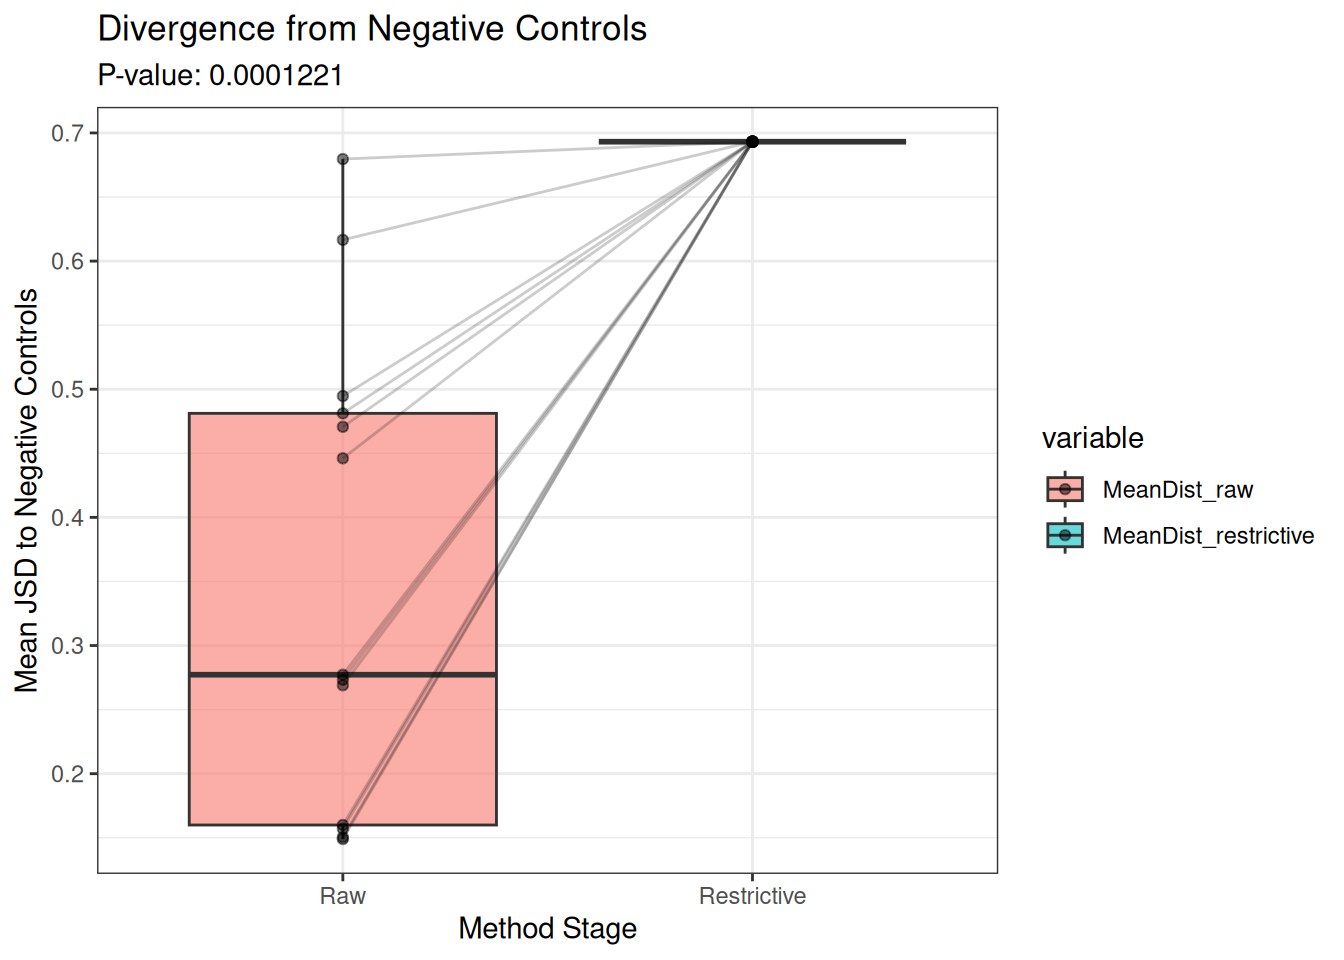
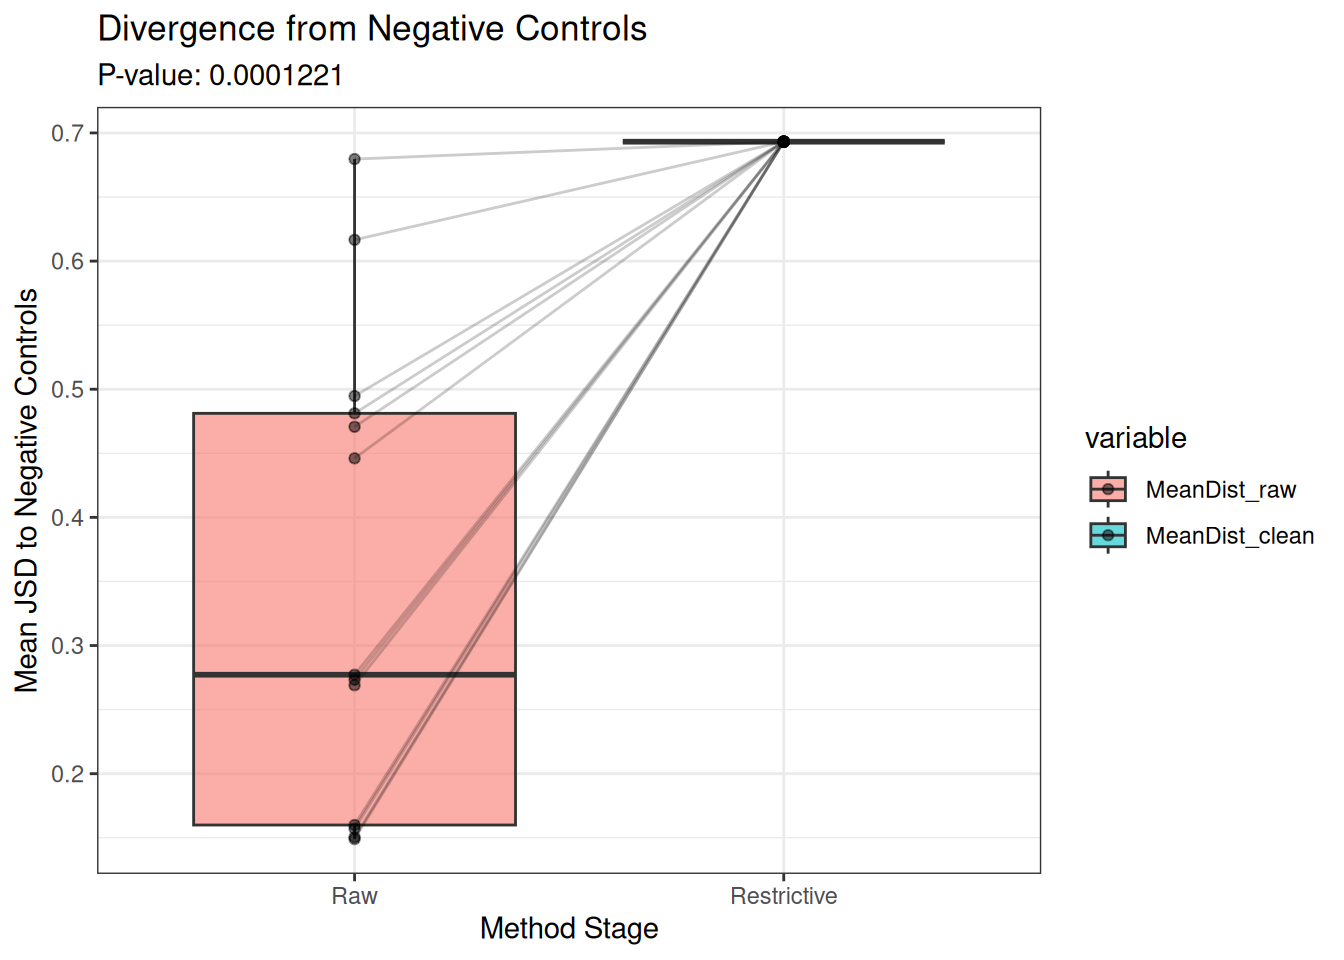
update section 2

diff --git a/Rscripts/Chap3/ComprehensiveAssessment.html b/Rscripts/Chap3/ComprehensiveAssessment.html
@@ -753,7 +753,29 @@ present in any sample after random subsampling</code></pre>
 <span id="cb114-18"><a href="#cb114-18" aria-hidden="true" tabindex="-1"></a>  <span class="co">#print(median_dists)</span></span>
 <span id="cb114-19"><a href="#cb114-19" aria-hidden="true" tabindex="-1"></a>  <span class="fu">return</span>(<span class="fu">data.frame</span>(<span class="at">SampleID =</span> <span class="fu">names</span>(mean_dists), <span class="at">MeanDist =</span> mean_dists, <span class="at">MedianDist =</span> median_dists))</span>
 <span id="cb114-20"><a href="#cb114-20" aria-hidden="true" tabindex="-1"></a>}</span>
-<span id="cb114-21"><a href="#cb114-21" aria-hidden="true" tabindex="-1"></a><span class="do">### Wrapper of statistics and ggplots</span></span></code><button title="Copy to Clipboard" class="code-copy-button"><i class="bi"></i></button></pre></div>
+<span id="cb114-21"><a href="#cb114-21" aria-hidden="true" tabindex="-1"></a><span class="do">### Wrapper of statistics and ggplots</span></span>
+<span id="cb114-22"><a href="#cb114-22" aria-hidden="true" tabindex="-1"></a>wrapper_dist_to_controls <span class="ot">&lt;-</span> <span class="cf">function</span>(ps_raw, ps_clean, group_col, <span class="at">true_label =</span> <span class="st">"true"</span>, <span class="at">control_label =</span> <span class="st">"NCT"</span>, <span class="at">metric =</span> <span class="st">"bray"</span>, <span class="at">decontam_name =</span> <span class="st">"None"</span>){</span>
+<span id="cb114-23"><a href="#cb114-23" aria-hidden="true" tabindex="-1"></a>  df_raw <span class="ot">&lt;-</span> <span class="fu">get_dist_to_controls</span>(ps_raw, group_col, true_label, control_label, metric)</span>
+<span id="cb114-24"><a href="#cb114-24" aria-hidden="true" tabindex="-1"></a>  df_clean <span class="ot">&lt;-</span> <span class="fu">get_dist_to_controls</span>(ps_clean, group_col, true_label, control_label, metric)</span>
+<span id="cb114-25"><a href="#cb114-25" aria-hidden="true" tabindex="-1"></a>  df_raw <span class="ot">&lt;-</span> df_raw <span class="sc">%&gt;%</span> <span class="fu">select</span>(SampleID, <span class="at">MeanDist_raw =</span> MeanDist)</span>
+<span id="cb114-26"><a href="#cb114-26" aria-hidden="true" tabindex="-1"></a>  df_clean <span class="ot">&lt;-</span> df_clean <span class="sc">%&gt;%</span> <span class="fu">select</span>(SampleID, <span class="at">MeanDist_clean =</span> MeanDist)</span>
+<span id="cb114-27"><a href="#cb114-27" aria-hidden="true" tabindex="-1"></a>  <span class="co">#print()</span></span>
+<span id="cb114-28"><a href="#cb114-28" aria-hidden="true" tabindex="-1"></a>  df_stats <span class="ot">&lt;-</span> <span class="fu">merge</span>(df_raw, df_clean, <span class="at">by =</span> <span class="st">"SampleID"</span>)</span>
+<span id="cb114-29"><a href="#cb114-29" aria-hidden="true" tabindex="-1"></a>  test_results <span class="ot">&lt;-</span> <span class="fu">wilcox.test</span>(df_stats<span class="sc">$</span>MeanDist_clean, df_stats<span class="sc">$</span>MeanDist_raw,</span>
+<span id="cb114-30"><a href="#cb114-30" aria-hidden="true" tabindex="-1"></a>                            <span class="at">paired =</span> <span class="cn">TRUE</span>, <span class="at">alternative =</span> <span class="st">"greater"</span>)</span>
+<span id="cb114-31"><a href="#cb114-31" aria-hidden="true" tabindex="-1"></a>  df_long <span class="ot">&lt;-</span> <span class="fu">melt</span>(df_stats, <span class="at">id.vars=</span><span class="st">"SampleID"</span>, <span class="at">measure.vars=</span><span class="fu">c</span>(<span class="st">"MeanDist_raw"</span>, <span class="st">"MeanDist_clean"</span>))</span>
+<span id="cb114-32"><a href="#cb114-32" aria-hidden="true" tabindex="-1"></a>  plt <span class="ot">&lt;-</span> <span class="fu">ggplot</span>(df_long, <span class="fu">aes</span>(<span class="at">x=</span>variable, <span class="at">y=</span>value, <span class="at">fill=</span>variable)) <span class="sc">+</span></span>
+<span id="cb114-33"><a href="#cb114-33" aria-hidden="true" tabindex="-1"></a>  <span class="fu">geom_boxplot</span>(<span class="at">alpha=</span><span class="fl">0.6</span>) <span class="sc">+</span></span>
+<span id="cb114-34"><a href="#cb114-34" aria-hidden="true" tabindex="-1"></a>  <span class="fu">geom_point</span>(<span class="fu">aes</span>(<span class="at">group=</span>SampleID), <span class="at">alpha=</span><span class="fl">0.5</span>) <span class="sc">+</span> <span class="co"># Adds the dots</span></span>
+<span id="cb114-35"><a href="#cb114-35" aria-hidden="true" tabindex="-1"></a>  <span class="fu">geom_line</span>(<span class="fu">aes</span>(<span class="at">group=</span>SampleID), <span class="at">alpha=</span><span class="fl">0.2</span>) <span class="sc">+</span>  <span class="co"># Connects the dots (shows paired change)</span></span>
+<span id="cb114-36"><a href="#cb114-36" aria-hidden="true" tabindex="-1"></a>  <span class="fu">theme_bw</span>() <span class="sc">+</span></span>
+<span id="cb114-37"><a href="#cb114-37" aria-hidden="true" tabindex="-1"></a>  <span class="fu">labs</span>(<span class="at">title =</span> <span class="st">"Divergence from Negative Controls"</span>,</span>
+<span id="cb114-38"><a href="#cb114-38" aria-hidden="true" tabindex="-1"></a>       <span class="at">subtitle =</span> <span class="fu">paste</span>(<span class="st">"P-value:"</span>, <span class="fu">format.pval</span>(test_results<span class="sc">$</span>p.value, <span class="at">digits=</span><span class="dv">4</span>)),</span>
+<span id="cb114-39"><a href="#cb114-39" aria-hidden="true" tabindex="-1"></a>       <span class="at">y =</span> <span class="st">"Mean JSD to Negative Controls"</span>,</span>
+<span id="cb114-40"><a href="#cb114-40" aria-hidden="true" tabindex="-1"></a>       <span class="at">x =</span> <span class="st">"Method Stage"</span>) <span class="sc">+</span></span>
+<span id="cb114-41"><a href="#cb114-41" aria-hidden="true" tabindex="-1"></a>  <span class="fu">scale_x_discrete</span>(<span class="at">labels=</span><span class="fu">c</span>(<span class="st">"Raw"</span>, decontam_name))</span>
+<span id="cb114-42"><a href="#cb114-42" aria-hidden="true" tabindex="-1"></a>  <span class="fu">return</span>(<span class="fu">list</span>(<span class="at">test_results =</span> test_results, <span class="at">plt =</span> plt))</span>
+<span id="cb114-43"><a href="#cb114-43" aria-hidden="true" tabindex="-1"></a>}</span></code><button title="Copy to Clipboard" class="code-copy-button"><i class="bi"></i></button></pre></div>
 </div>
 <section id="raw" class="level3">
 <h3 class="anchored" data-anchor-id="raw">Raw</h3>
@@ -769,39 +791,23 @@ present in any sample after random subsampling</code></pre>
 <section id="restrictive-1" class="level3">
 <h3 class="anchored" data-anchor-id="restrictive-1">Restrictive</h3>
 <div class="cell">
-<div class="sourceCode cell-code" id="cb116"><pre class="sourceCode r code-with-copy"><code class="sourceCode r"><span id="cb116-1"><a href="#cb116-1" aria-hidden="true" tabindex="-1"></a>df_restrictive <span class="ot">&lt;-</span> <span class="fu">get_dist_to_controls</span>(pseq_restrictive_both, <span class="at">group_col =</span> <span class="st">"true.control"</span>,</span>
-<span id="cb116-2"><a href="#cb116-2" aria-hidden="true" tabindex="-1"></a>                               <span class="at">true_label =</span> <span class="st">"true"</span>, <span class="at">control_label =</span> <span class="st">"NCT"</span>,</span>
-<span id="cb116-3"><a href="#cb116-3" aria-hidden="true" tabindex="-1"></a>                               <span class="at">metric =</span> <span class="st">"jsd"</span>)</span>
-<span id="cb116-4"><a href="#cb116-4" aria-hidden="true" tabindex="-1"></a>df_restrictive <span class="ot">&lt;-</span> df_restrictive <span class="sc">%&gt;%</span> </span>
-<span id="cb116-5"><a href="#cb116-5" aria-hidden="true" tabindex="-1"></a>  <span class="fu">rename</span>(<span class="at">MeanDist_restrictive =</span> MeanDist, <span class="at">MedianDist_restrictive =</span> MedianDist)</span>
-<span id="cb116-6"><a href="#cb116-6" aria-hidden="true" tabindex="-1"></a>df_merge <span class="ot">&lt;-</span> <span class="fu">merge</span>(df_raw, df_restrictive, <span class="at">by =</span> <span class="st">"SampleID"</span>)</span>
-<span id="cb116-7"><a href="#cb116-7" aria-hidden="true" tabindex="-1"></a><span class="do">## STATISTICAL </span><span class="al">TEST</span></span>
-<span id="cb116-8"><a href="#cb116-8" aria-hidden="true" tabindex="-1"></a>test_results <span class="ot">&lt;-</span> <span class="fu">wilcox.test</span>(df_merge<span class="sc">$</span>MeanDist_restrictive, df_merge<span class="sc">$</span>MeanDist_raw,</span>
-<span id="cb116-9"><a href="#cb116-9" aria-hidden="true" tabindex="-1"></a>                            <span class="at">paired =</span> <span class="cn">TRUE</span>, <span class="at">alternative =</span> <span class="st">"greater"</span>)</span>
-<span id="cb116-10"><a href="#cb116-10" aria-hidden="true" tabindex="-1"></a><span class="fu">print</span>(test_results)</span></code><button title="Copy to Clipboard" class="code-copy-button"><i class="bi"></i></button></pre></div>
+<div class="sourceCode cell-code" id="cb116"><pre class="sourceCode r code-with-copy"><code class="sourceCode r"><span id="cb116-1"><a href="#cb116-1" aria-hidden="true" tabindex="-1"></a>res <span class="ot">&lt;-</span> <span class="fu">wrapper_dist_to_controls</span>(pseq_raw_both, pseq_restrictive_both,</span>
+<span id="cb116-2"><a href="#cb116-2" aria-hidden="true" tabindex="-1"></a>                                <span class="at">group_col =</span> <span class="st">"true.control"</span>, </span>
+<span id="cb116-3"><a href="#cb116-3" aria-hidden="true" tabindex="-1"></a>                                <span class="at">true_label =</span> <span class="st">"true"</span>, <span class="at">control_label =</span> <span class="st">"NCT"</span>,</span>
+<span id="cb116-4"><a href="#cb116-4" aria-hidden="true" tabindex="-1"></a>                                <span class="at">metric =</span> <span class="st">"jsd"</span>, <span class="at">decontam_name =</span> <span class="st">"Restrictive"</span>)</span>
+<span id="cb116-5"><a href="#cb116-5" aria-hidden="true" tabindex="-1"></a><span class="fu">print</span>(res<span class="sc">$</span>test_results)</span></code><button title="Copy to Clipboard" class="code-copy-button"><i class="bi"></i></button></pre></div>
 <div class="cell-output cell-output-stdout">
 <pre><code>
     Wilcoxon signed rank exact test
 
-data:  df_merge$MeanDist_restrictive and df_merge$MeanDist_raw
+data:  df_stats$MeanDist_clean and df_stats$MeanDist_raw
 V = 91, p-value = 0.0001221
 alternative hypothesis: true location shift is greater than 0</code></pre>
 </div>
 </div>
 <p>GGplot</p>
 <div class="cell">
-<div class="sourceCode cell-code" id="cb118"><pre class="sourceCode r code-with-copy"><code class="sourceCode r"><span id="cb118-1"><a href="#cb118-1" aria-hidden="true" tabindex="-1"></a>df_long <span class="ot">&lt;-</span> <span class="fu">melt</span>(df_merge, <span class="at">id.vars=</span><span class="st">"SampleID"</span>, <span class="at">measure.vars=</span><span class="fu">c</span>(<span class="st">"MeanDist_raw"</span>, <span class="st">"MeanDist_restrictive"</span>))</span>
-<span id="cb118-2"><a href="#cb118-2" aria-hidden="true" tabindex="-1"></a></span>
-<span id="cb118-3"><a href="#cb118-3" aria-hidden="true" tabindex="-1"></a><span class="fu">ggplot</span>(df_long, <span class="fu">aes</span>(<span class="at">x=</span>variable, <span class="at">y=</span>value, <span class="at">fill=</span>variable)) <span class="sc">+</span></span>
-<span id="cb118-4"><a href="#cb118-4" aria-hidden="true" tabindex="-1"></a>  <span class="fu">geom_boxplot</span>(<span class="at">alpha=</span><span class="fl">0.6</span>) <span class="sc">+</span></span>
-<span id="cb118-5"><a href="#cb118-5" aria-hidden="true" tabindex="-1"></a>  <span class="fu">geom_point</span>(<span class="fu">aes</span>(<span class="at">group=</span>SampleID), <span class="at">alpha=</span><span class="fl">0.5</span>) <span class="sc">+</span> <span class="co"># Adds the dots</span></span>
-<span id="cb118-6"><a href="#cb118-6" aria-hidden="true" tabindex="-1"></a>  <span class="fu">geom_line</span>(<span class="fu">aes</span>(<span class="at">group=</span>SampleID), <span class="at">alpha=</span><span class="fl">0.2</span>) <span class="sc">+</span>  <span class="co"># Connects the dots (shows paired change)</span></span>
-<span id="cb118-7"><a href="#cb118-7" aria-hidden="true" tabindex="-1"></a>  <span class="fu">theme_bw</span>() <span class="sc">+</span></span>
-<span id="cb118-8"><a href="#cb118-8" aria-hidden="true" tabindex="-1"></a>  <span class="fu">labs</span>(<span class="at">title =</span> <span class="st">"Divergence from Negative Controls"</span>,</span>
-<span id="cb118-9"><a href="#cb118-9" aria-hidden="true" tabindex="-1"></a>       <span class="at">subtitle =</span> <span class="fu">paste</span>(<span class="st">"P-value:"</span>, <span class="fu">format.pval</span>(test_results<span class="sc">$</span>p.value, <span class="at">digits=</span><span class="dv">4</span>)),</span>
-<span id="cb118-10"><a href="#cb118-10" aria-hidden="true" tabindex="-1"></a>       <span class="at">y =</span> <span class="st">"Mean JSD to Negative Controls"</span>,</span>
-<span id="cb118-11"><a href="#cb118-11" aria-hidden="true" tabindex="-1"></a>       <span class="at">x =</span> <span class="st">"Method Stage"</span>) <span class="sc">+</span></span>
-<span id="cb118-12"><a href="#cb118-12" aria-hidden="true" tabindex="-1"></a>  <span class="fu">scale_x_discrete</span>(<span class="at">labels=</span><span class="fu">c</span>(<span class="st">"Raw"</span>, <span class="st">"Restrictive"</span>))</span></code><button title="Copy to Clipboard" class="code-copy-button"><i class="bi"></i></button></pre></div>
+<div class="sourceCode cell-code" id="cb118"><pre class="sourceCode r code-with-copy"><code class="sourceCode r"><span id="cb118-1"><a href="#cb118-1" aria-hidden="true" tabindex="-1"></a>res<span class="sc">$</span>plt</span></code><button title="Copy to Clipboard" class="code-copy-button"><i class="bi"></i></button></pre></div>
 <div class="cell-output-display">
 <div>
 <figure class="figure">
@@ -813,12 +819,89 @@ alternative hypothesis: true location shift is greater than 0</code></pre>
 </section>
 <section id="decontam-1" class="level3">
 <h3 class="anchored" data-anchor-id="decontam-1">Decontam</h3>
+<div class="cell">
+<div class="sourceCode cell-code" id="cb119"><pre class="sourceCode r code-with-copy"><code class="sourceCode r"><span id="cb119-1"><a href="#cb119-1" aria-hidden="true" tabindex="-1"></a>res <span class="ot">&lt;-</span> <span class="fu">wrapper_dist_to_controls</span>(pseq_raw_both, pseq_decontam_both,</span>
+<span id="cb119-2"><a href="#cb119-2" aria-hidden="true" tabindex="-1"></a>                                <span class="at">group_col =</span> <span class="st">"true.control"</span>, </span>
+<span id="cb119-3"><a href="#cb119-3" aria-hidden="true" tabindex="-1"></a>                                <span class="at">true_label =</span> <span class="st">"true"</span>, <span class="at">control_label =</span> <span class="st">"NCT"</span>,</span>
+<span id="cb119-4"><a href="#cb119-4" aria-hidden="true" tabindex="-1"></a>                                <span class="at">metric =</span> <span class="st">"jsd"</span>, <span class="at">decontam_name =</span> <span class="st">"decontam"</span>)</span>
+<span id="cb119-5"><a href="#cb119-5" aria-hidden="true" tabindex="-1"></a><span class="fu">print</span>(res<span class="sc">$</span>test_results)</span></code><button title="Copy to Clipboard" class="code-copy-button"><i class="bi"></i></button></pre></div>
+<div class="cell-output cell-output-stdout">
+<pre><code>
+    Wilcoxon signed rank exact test
+
+data:  df_stats$MeanDist_clean and df_stats$MeanDist_raw
+V = 91, p-value = 0.0001221
+alternative hypothesis: true location shift is greater than 0</code></pre>
+</div>
+</div>
+<p>GGplot</p>
+<div class="cell">
+<div class="sourceCode cell-code" id="cb121"><pre class="sourceCode r code-with-copy"><code class="sourceCode r"><span id="cb121-1"><a href="#cb121-1" aria-hidden="true" tabindex="-1"></a>res<span class="sc">$</span>plt</span></code><button title="Copy to Clipboard" class="code-copy-button"><i class="bi"></i></button></pre></div>
+<div class="cell-output-display">
+<div>
+<figure class="figure">
+<p><img src="ComprehensiveAssessment_files/figure-html/unnamed-chunk-20-1.png" class="img-fluid figure-img" width="672"></p>
+</figure>
+</div>
+</div>
+</div>
 </section>
 <section id="scrub-1" class="level3">
 <h3 class="anchored" data-anchor-id="scrub-1">SCRuB</h3>
+<div class="cell">
+<div class="sourceCode cell-code" id="cb122"><pre class="sourceCode r code-with-copy"><code class="sourceCode r"><span id="cb122-1"><a href="#cb122-1" aria-hidden="true" tabindex="-1"></a>res <span class="ot">&lt;-</span> <span class="fu">wrapper_dist_to_controls</span>(pseq_raw_both, pseq_SCRuB_both,</span>
+<span id="cb122-2"><a href="#cb122-2" aria-hidden="true" tabindex="-1"></a>                                <span class="at">group_col =</span> <span class="st">"true.control"</span>, </span>
+<span id="cb122-3"><a href="#cb122-3" aria-hidden="true" tabindex="-1"></a>                                <span class="at">true_label =</span> <span class="st">"true"</span>, <span class="at">control_label =</span> <span class="st">"NCT"</span>,</span>
+<span id="cb122-4"><a href="#cb122-4" aria-hidden="true" tabindex="-1"></a>                                <span class="at">metric =</span> <span class="st">"jsd"</span>, <span class="at">decontam_name =</span> <span class="st">"SCRuB"</span>)</span>
+<span id="cb122-5"><a href="#cb122-5" aria-hidden="true" tabindex="-1"></a><span class="fu">print</span>(res<span class="sc">$</span>test_results)</span></code><button title="Copy to Clipboard" class="code-copy-button"><i class="bi"></i></button></pre></div>
+<div class="cell-output cell-output-stdout">
+<pre><code>
+    Wilcoxon signed rank exact test
+
+data:  df_stats$MeanDist_clean and df_stats$MeanDist_raw
+V = 105, p-value = 6.104e-05
+alternative hypothesis: true location shift is greater than 0</code></pre>
+</div>
+</div>
+<div class="cell">
+<div class="sourceCode cell-code" id="cb124"><pre class="sourceCode r code-with-copy"><code class="sourceCode r"><span id="cb124-1"><a href="#cb124-1" aria-hidden="true" tabindex="-1"></a>res<span class="sc">$</span>plt</span></code><button title="Copy to Clipboard" class="code-copy-button"><i class="bi"></i></button></pre></div>
+<div class="cell-output-display">
+<div>
+<figure class="figure">
+<p><img src="ComprehensiveAssessment_files/figure-html/unnamed-chunk-22-1.png" class="img-fluid figure-img" width="672"></p>
+</figure>
+</div>
+</div>
+</div>
 </section>
 <section id="nejman-1" class="level3">
 <h3 class="anchored" data-anchor-id="nejman-1">Nejman</h3>
+<div class="cell">
+<div class="sourceCode cell-code" id="cb125"><pre class="sourceCode r code-with-copy"><code class="sourceCode r"><span id="cb125-1"><a href="#cb125-1" aria-hidden="true" tabindex="-1"></a>res <span class="ot">&lt;-</span> <span class="fu">wrapper_dist_to_controls</span>(pseq_raw_both, pseq_Nj_both,</span>
+<span id="cb125-2"><a href="#cb125-2" aria-hidden="true" tabindex="-1"></a>                                <span class="at">group_col =</span> <span class="st">"true.control"</span>, </span>
+<span id="cb125-3"><a href="#cb125-3" aria-hidden="true" tabindex="-1"></a>                                <span class="at">true_label =</span> <span class="st">"true"</span>, <span class="at">control_label =</span> <span class="st">"NCT"</span>,</span>
+<span id="cb125-4"><a href="#cb125-4" aria-hidden="true" tabindex="-1"></a>                                <span class="at">metric =</span> <span class="st">"jsd"</span>, <span class="at">decontam_name =</span> <span class="st">"Nejman"</span>)</span>
+<span id="cb125-5"><a href="#cb125-5" aria-hidden="true" tabindex="-1"></a><span class="fu">print</span>(res<span class="sc">$</span>test_results)</span></code><button title="Copy to Clipboard" class="code-copy-button"><i class="bi"></i></button></pre></div>
+<div class="cell-output cell-output-stdout">
+<pre><code>
+    Wilcoxon signed rank exact test
+
+data:  df_stats$MeanDist_clean and df_stats$MeanDist_raw
+V = 78, p-value = 0.0002441
+alternative hypothesis: true location shift is greater than 0</code></pre>
+</div>
+</div>
+<div class="cell">
+<div class="sourceCode cell-code" id="cb127"><pre class="sourceCode r code-with-copy"><code class="sourceCode r"><span id="cb127-1"><a href="#cb127-1" aria-hidden="true" tabindex="-1"></a>res<span class="sc">$</span>plt</span></code><button title="Copy to Clipboard" class="code-copy-button"><i class="bi"></i></button></pre></div>
+<div class="cell-output-display">
+<div>
+<figure class="figure">
+<p><img src="ComprehensiveAssessment_files/figure-html/unnamed-chunk-24-1.png" class="img-fluid figure-img" width="672"></p>
+</figure>
+</div>
+</div>
+</div>
+<p>Conclusion: all method performer well!</p>
 </section>
 </section>
 <section id="biologically-meaningful-of-consensus-taxa" class="level2">
@@ -826,6 +909,11 @@ alternative hypothesis: true location shift is greater than 0</code></pre>
 </section>
 <section id="overlap-with-known-true-taxa-contaminants" class="level2">
 <h2 class="anchored" data-anchor-id="overlap-with-known-true-taxa-contaminants">4. Overlap with known true taxa / contaminants</h2>
+<ul>
+<li><p><strong>Approach:</strong></p></li>
+<li><p><strong>Metric:</strong></p></li>
+<li><p><strong>Logic:</strong> a good decontamination methods should give results whose taxa is less overlap with known high prevalence contaminants in large set of NCTs.</p></li>
+</ul>
 </section>
 
 </main>
